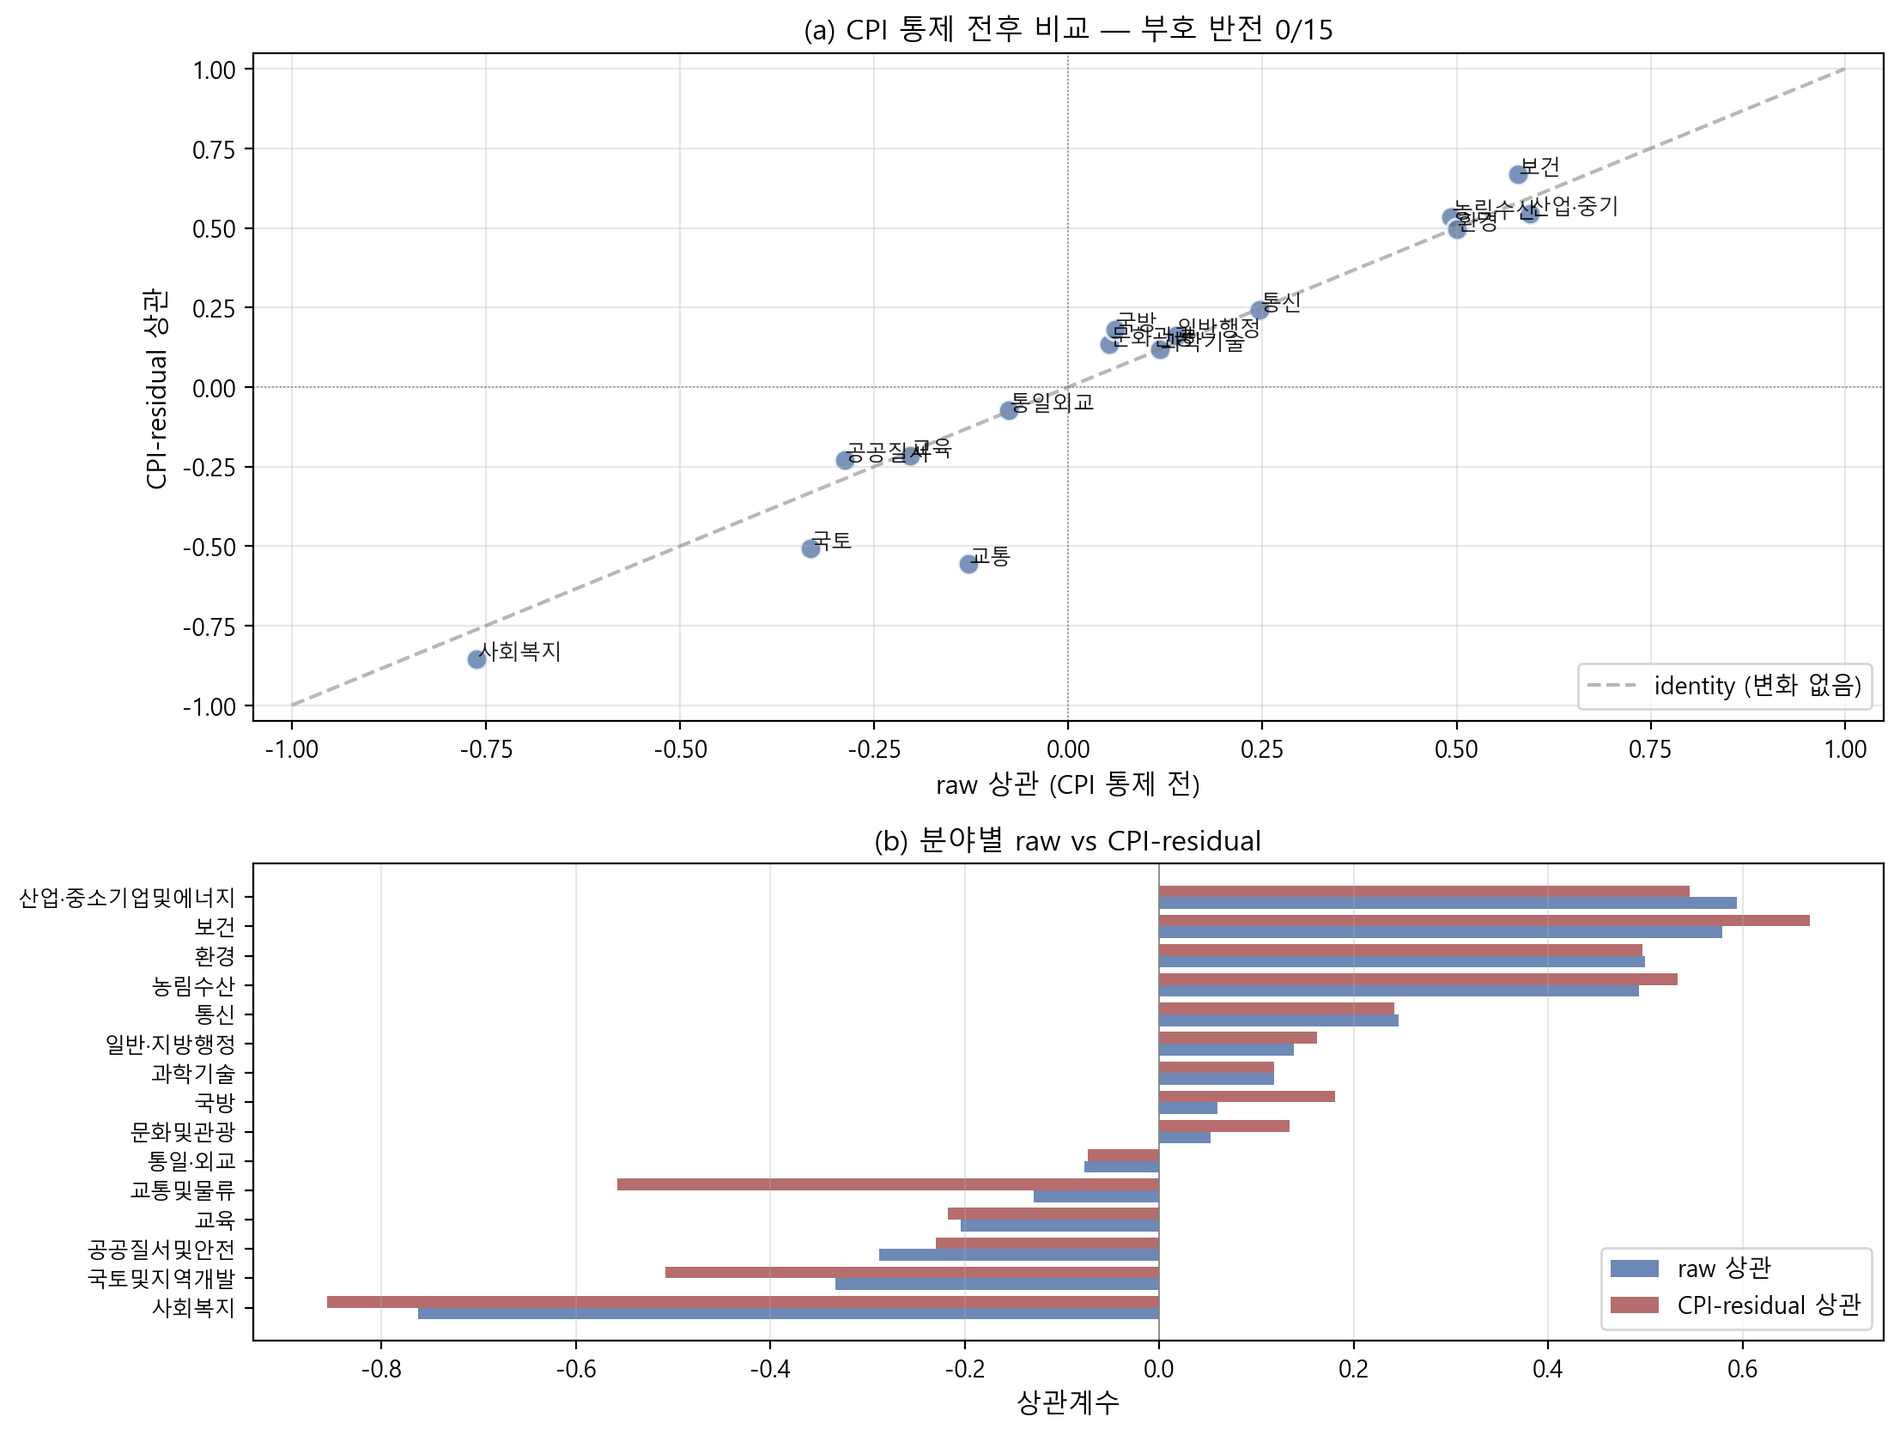
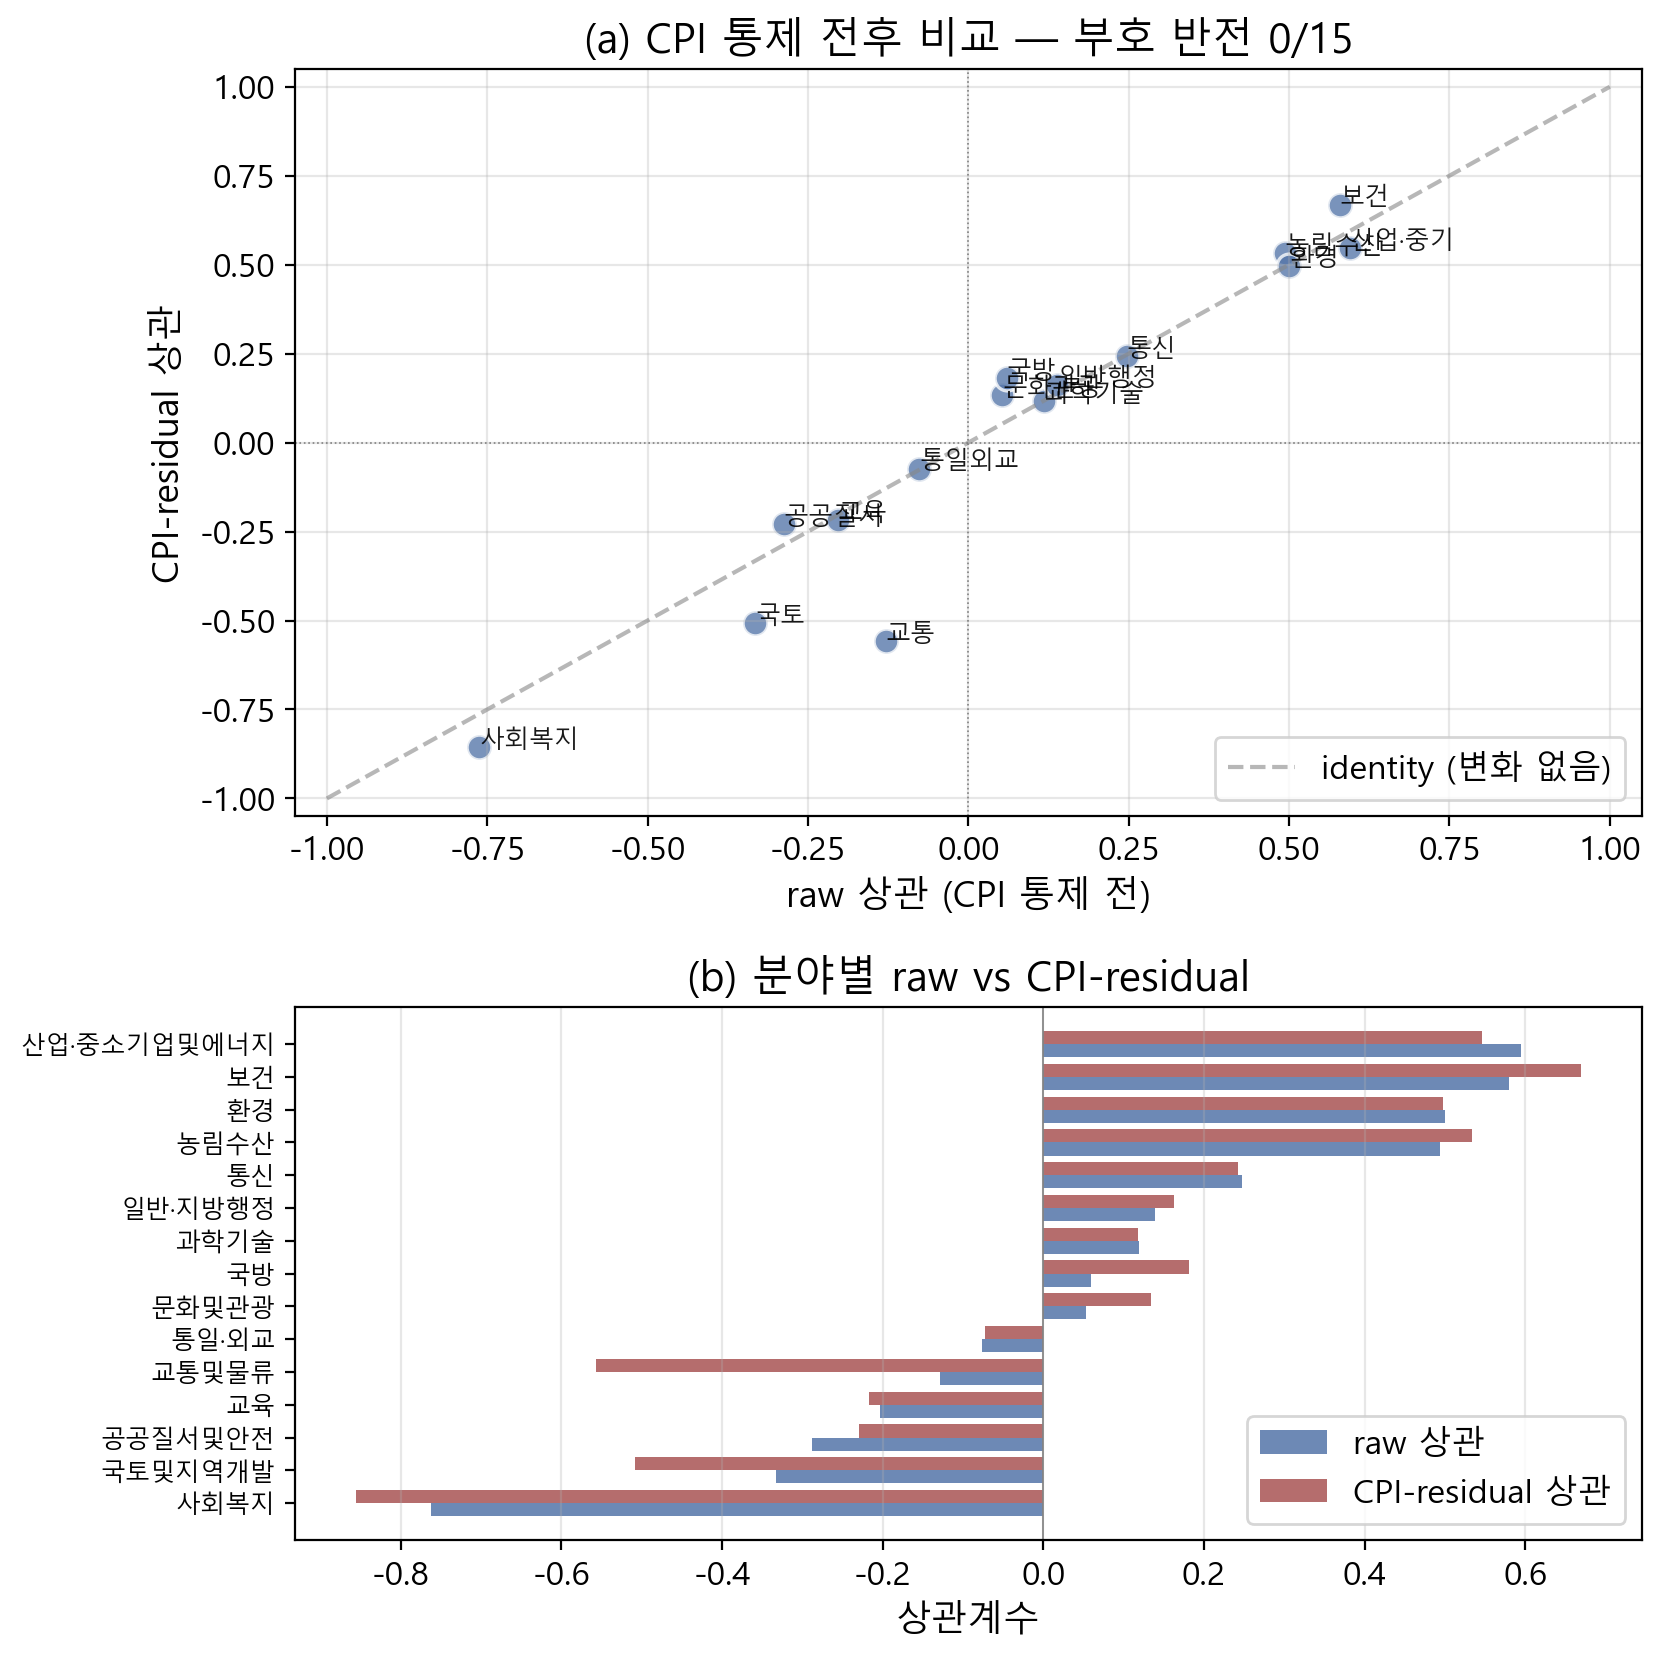
그림 12 폭 추가 감소 + 폰트 키움, 그림 19 원래 비율 복원
그림 12 (h10_cpi_control):
  - figsize: (11.2, 8.5) → (8.5, 8.5), ratio 1.32 → 1.00
  - 폰트 크기 +20% (font.size 11→13, titlesize 12→15, label 11→13, tick 10→12, legend 10→12)

그림 19 (h27_phase):
  - figsize: (16.0, 6.3) → (6.3, 6.3), ratio 1.50 → 0.94 (원래 비율)
  - polar 2x2 자연 정렬

diff --git a/scripts/redo_fig05_cpi.py b/scripts/redo_fig05_cpi.py
@@ -18,9 +18,9 @@ warnings.filterwarnings('ignore')
 sys.stdout = io.TextIOWrapper(sys.stdout.buffer, encoding='utf-8')
 
 plt.rcParams.update({
-    'font.size': 11, 'axes.titlesize': 12, 'axes.labelsize': 11,
-    'xtick.labelsize': 10, 'ytick.labelsize': 10,
-    'legend.fontsize': 10,
+    'font.size': 13, 'axes.titlesize': 15, 'axes.labelsize': 13,
+    'xtick.labelsize': 12, 'ytick.labelsize': 12,
+    'legend.fontsize': 12,
     'mathtext.default': 'regular',
     'axes.unicode_minus': False,
 })
@@ -52,7 +52,7 @@ SHORT = {
 df = df.copy()
 df['fld_short'] = df['fld'].map(lambda x: SHORT.get(x, x))
 
-fig, axes = plt.subplots(2, 1, figsize=(11.2, 8.5),
+fig, axes = plt.subplots(2, 1, figsize=(8.5, 8.5),
                          gridspec_kw={'height_ratios': [1.4, 1]})
 
 # ── (a) 산포도 raw vs CPI-residual + 분야 라벨 (adjustText)

diff --git a/scripts/redo_fig12_phase.py b/scripts/redo_fig12_phase.py
@@ -43,7 +43,7 @@ ARCH_COLOR = {'C0_personnel': '#4C72B0',
               'C2_chooyeon': '#55A868',
               'C3_normal': '#C44E52'}
 
-fig, axes = plt.subplots(2, 2, figsize=(16.0, 6.3),
+fig, axes = plt.subplots(2, 2, figsize=(6.3, 6.3),
                          subplot_kw={'projection': 'polar'})
 
 for ax, arch in zip(axes.flat,
